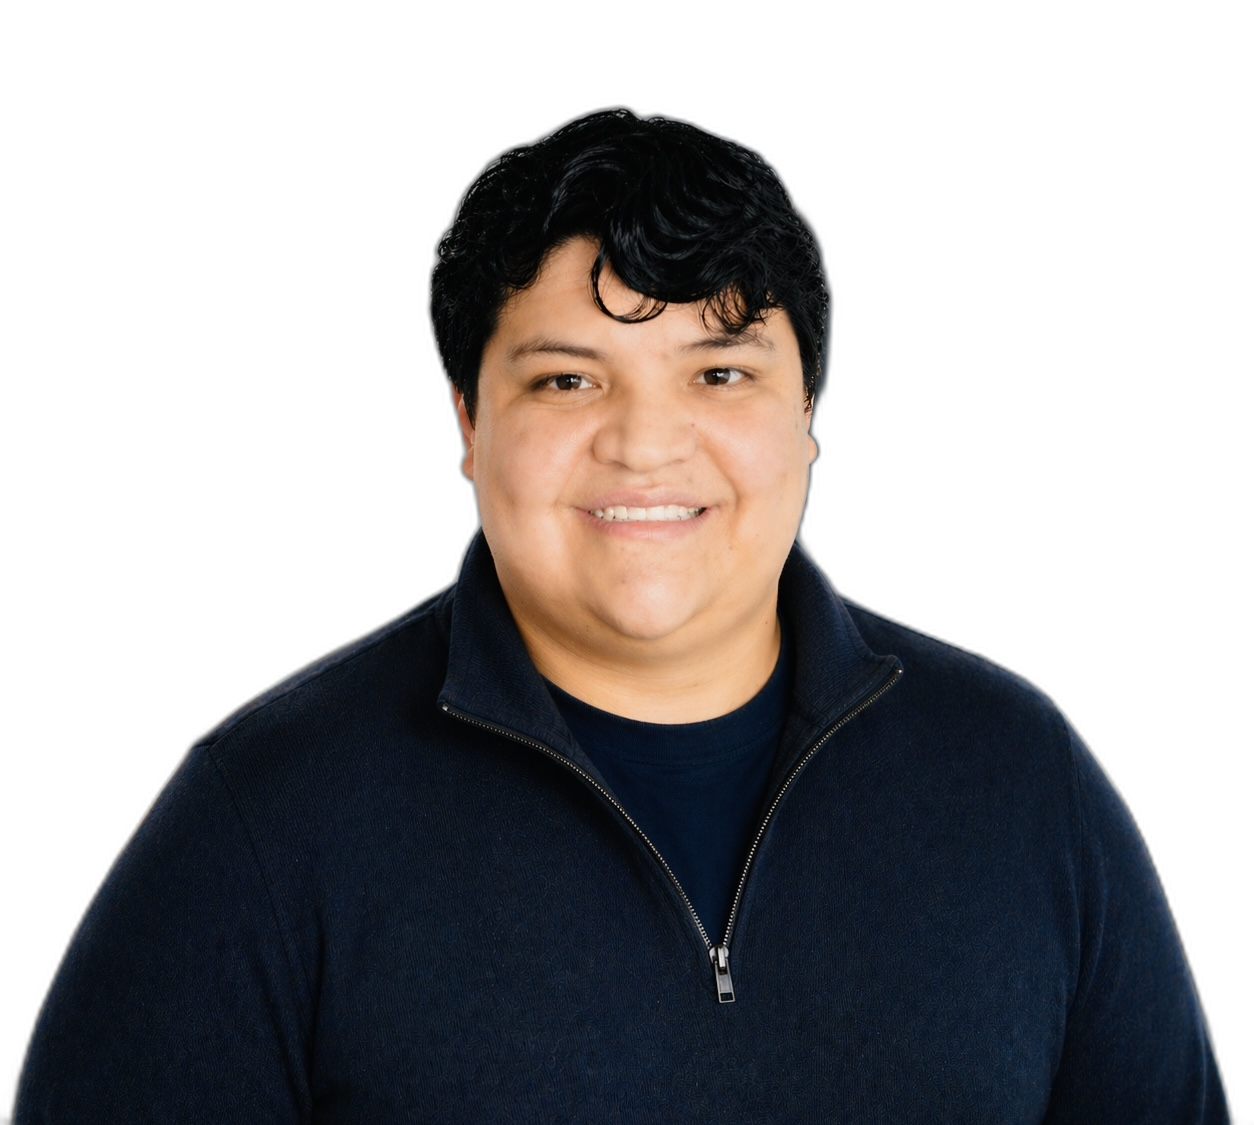
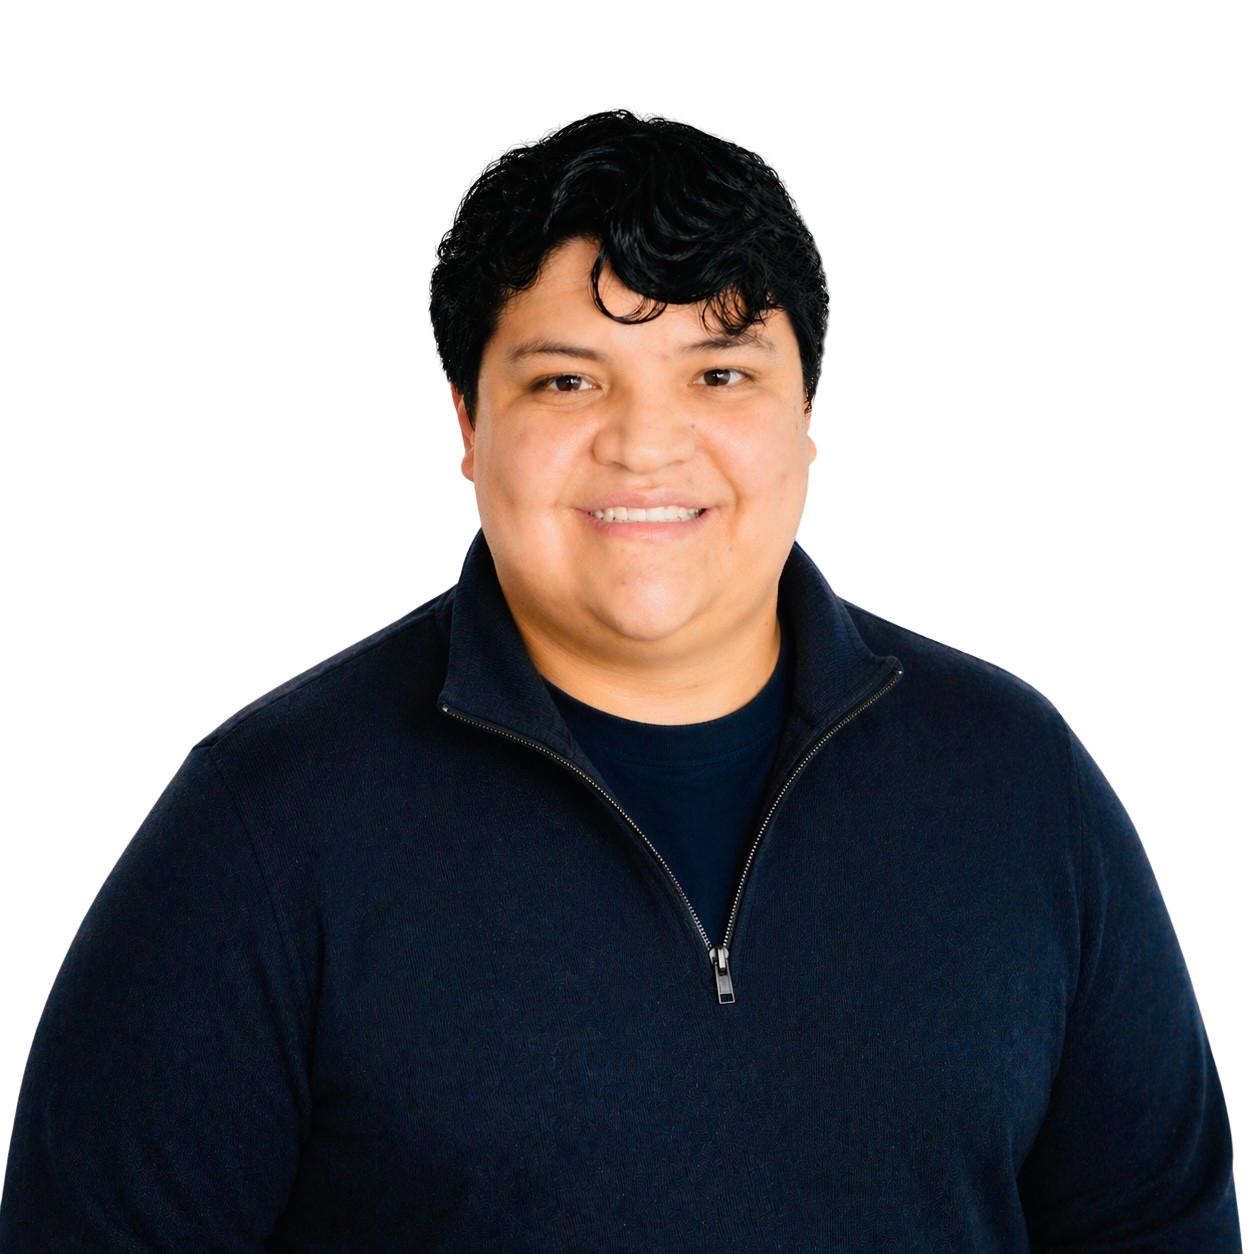
feat: cinematic photo card with grayscale hover, blue glow, and custom cursor
- Replaced photo card with frameless B&W-to-color hover transition using pure CSS
- Added radial blue glow burst emanating from photo on hover
- Installed cursor-style and added lime dot+ring custom cursor site-wide
- Hid native cursor globally via cursor: none

Changed region(s): [[0.0, 0.0622, 0.9952, 1.0], [0.7775, 0.7778, 0.8708, 1.0]]

diff --git a/src/components/GlitchPhotoCard.jsx b/src/components/GlitchPhotoCard.jsx
@@ -2,33 +2,54 @@
 
 import PropTypes from 'prop-types';
 
+const maskGradients = [
+  'linear-gradient(to bottom, transparent 0%, black 14%, black 72%, transparent 100%)',
+  'linear-gradient(to right,  transparent 0%, black 28%, black 88%, transparent 100%)',
+].join(', ');
+
 const GlitchPhotoCard = ({ alt, name, title, className }) => {
   return (
-    <div className={`group relative w-full ${className}`}>
-      {/* Outer dark frame — tilted at rest, straightens on hover, pivoting from bottom-right */}
-      <div
-        className="neu-frame relative rounded-2xl p-3 sm:p-4 overflow-hidden aspect-[4/5] w-[420px] max-w-full max-xl:rotate-0 -rotate-3 group-hover:rotate-0 transition-all duration-500 ease-out"
-        style={{ transformOrigin: 'bottom right' }}
-      >
-        {/* Photo — splatter backdrop stays put, cutout grows toward the viewer on hover */}
-        <div className="absolute inset-3 sm:inset-4 rounded-xl overflow-hidden">
-          <img
-            src="/images/hero-splatter.png"
-            alt=""
-            aria-hidden="true"
-            className="absolute inset-0 w-full h-full object-cover"
-          />
-          <img
-            src="/images/Me-cutout.png"
-            alt={alt}
-            className="absolute left-1/2 bottom-0 w-[125%] max-w-none -translate-x-1/2 origin-bottom transition-transform duration-500 ease-out group-hover:scale-105"
-          />
-          {/* Bottom gradient for text legibility */}
-          <div className="absolute inset-x-0 bottom-0 h-1/2 bg-gradient-to-t from-black/80 via-black/20 to-transparent" />
-        </div>
+    <div className={`relative w-full ${className}`}>
+      <style>{`
+        .photo-card-img {
+          filter: grayscale(100%);
+          transform: scale(1);
+          transition: filter 0.5s ease, transform 0.5s ease;
+        }
+        .photo-card-wrapper:hover .photo-card-img {
+          filter: grayscale(0%);
+          transform: scale(1.05);
+        }
+        .photo-card-glow {
+          position: absolute;
+          inset: -10% -15%;
+          background: radial-gradient(ellipse at 50% 65%, rgba(59,130,246,0.7) 0%, rgba(29,78,216,0.4) 35%, transparent 70%);
+          opacity: 0;
+          transition: opacity 0.5s ease;
+          pointer-events: none;
+          z-index: 0;
+          filter: blur(32px);
+        }
+        .photo-card-wrapper:hover .photo-card-glow {
+          opacity: 1;
+        }
+      `}</style>
 
-        {/* Name + title overlay */}
-        <div className="absolute bottom-6 left-6 sm:bottom-8 sm:left-8 z-10">
+      <div className="photo-card-wrapper relative aspect-[4/5] w-[420px] max-w-full">
+        <div className="photo-card-glow" />
+        <img
+          src="/images/Me-cutout.png"
+          alt={alt}
+          className="photo-card-img absolute left-1/2 bottom-0 w-[105%] max-w-none -translate-x-1/2 translate-y-[0%] origin-bottom"
+          style={{
+            maskImage: maskGradients,
+            maskComposite: 'intersect',
+            WebkitMaskImage: maskGradients,
+            WebkitMaskComposite: 'source-in',
+          }}
+        />
+
+        <div className="absolute bottom-6 left-2 sm:bottom-8 sm:left-4 z-10">
           <h3
             className="text-white font-bold text-2xl sm:text-3xl tracking-tight"
             style={{ fontFamily: 'var(--font-syne)' }}

diff --git a/src/components/CustomCursorWrapper.jsx b/src/components/CustomCursorWrapper.jsx
@@ -1,0 +1,17 @@
+'use client';
+
+import { CustomCursor } from 'cursor-style';
+
+export default function CustomCursorWrapper() {
+  return (
+    <CustomCursor
+      type="two"
+      sizeDot={0.8}
+      sizeOutline={3.5}
+      delay={50}
+      scaleOnHover={1.5}
+      bgColorDot="rgb(163,230,53)"
+      bgColorOutline="rgb(163,230,53)"
+    />
+  );
+}

diff --git a/src/app/page.jsx b/src/app/page.jsx
@@ -189,13 +189,7 @@ export default function Home() {
             className="min-w-0 max-lg:break-words text-xl sm:text-2xl lg:text-3xl font-extrabold tracking-[0.15em] max-lg:tracking-normal uppercase max-lg:whitespace-normal whitespace-nowrap text-lime-600 dark:text-lime-400"
             style={{ fontFamily: 'var(--font-syne)' }}
           >
-            <RevealText delay={0.1}>
-              Contact{' '}
-              <span className="lowercase" style={{ fontFamily: 'var(--font-caveat), cursive' }}>
-                &
-              </span>{' '}
-              Me
-            </RevealText>
+            <RevealText delay={0.1}>Contact Me</RevealText>
           </span>
           <ScrollDivider />
         </div>

diff --git a/src/app/globals.css b/src/app/globals.css
@@ -1,5 +1,9 @@
 @import 'tailwindcss';
 
+* {
+  cursor: none !important;
+}
+
 @theme {
   --color-accent: #84cc16;
   --color-accent-hover: #65a30d;

diff --git a/src/app/layout.jsx b/src/app/layout.jsx
@@ -3,6 +3,7 @@ import './globals.css';
 import Navbar from '@/components/Navbar/Navbar';
 import Footer from '@/components/Footer';
 import AmbientBackground from '@/components/AmbientBackground';
+import CustomCursorWrapper from '@/components/CustomCursorWrapper';
 import { navLinks, footerLinks } from '@/data/nav';
 
 const syne = Syne({
@@ -41,6 +42,7 @@ export default function RootLayout({ children }) {
     <html lang="en">
       <body className={`dark ${syne.variable} ${quicksand.variable} ${caveat.variable}`}>
         <AmbientBackground />
+        <CustomCursorWrapper />
         <div className="flex flex-col min-h-screen">
           <header className="w-full">
             <div className="w-full h-full max-w-screen-2xl mx-auto">

diff --git a/README.md b/README.md
@@ -28,9 +28,10 @@ Personal portfolio showcasing my projects, skills, and experience as a Software 
 Neumorphic design language with a lime accent throughout; soft depth on cards and
 icons, scroll-driven section color shifts, and a WebGL fluid ambient background on
 desktop. The hero photo card uses a background-removed cutout over a procedurally
-generated gradient with a diagonal hatch texture. 
+generated gradient with a diagonal hatch texture.
 
 Key decisions:
+
 - Mobile-first layout that degrades gracefully (WebGL disabled on touch devices)
 - Scroll-reveal animations driven by scroll direction, not just IntersectionObserver
 - Contact form handled server-side via Nodemailer. No third-party form services